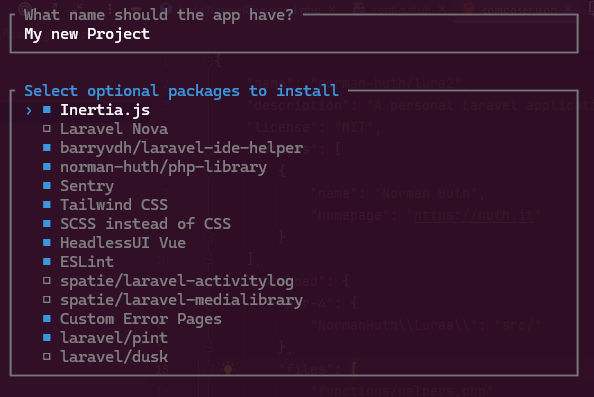
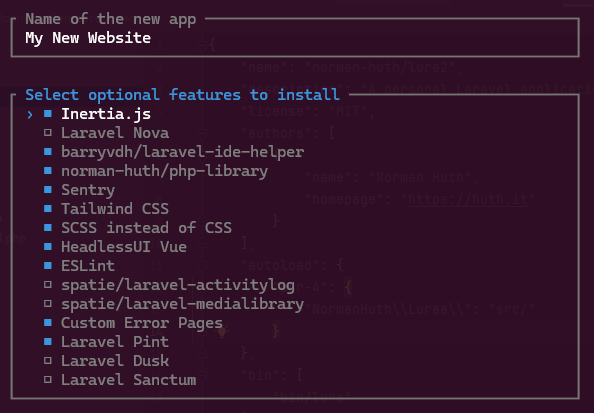
feat: add sanctum

Changed region(s): [[0.0, 0.2116, 1.0, 0.9673], [0.0, 0.0, 1.0, 0.1511]]

diff --git a/src/Commands/InstallLaravelCommand.php b/src/Commands/InstallLaravelCommand.php
@@ -61,8 +61,9 @@ class InstallLaravelCommand extends AbstractCommand
         'spatie/laravel-activitylog' => false,
         'spatie/laravel-medialibrary' => false,
         'Custom Error Pages' => true,
-        'laravel/pint' => true,
-        'laravel/dusk' => false,
+        'Laravel Pint' => true,
+        'Laravel Dusk' => false,
+        'Laravel Sanctum' => false,
     ];
 
     protected string $optionFontAwesome = 'no';
@@ -139,7 +140,7 @@ class InstallLaravelCommand extends AbstractCommand
         }
 
         $this->options = multiselect(
-            label: 'Select optional packages to install',
+            label: 'Select optional features to install',
             options: array_keys($this->options),
             default: array_keys(array_filter($this->options)),
             scroll: count($this->options),
@@ -209,13 +210,13 @@ class InstallLaravelCommand extends AbstractCommand
             $this->dependencies->addComposerDevRequirement('barryvdh/laravel-ide-helper', '^3.0"');
         }
 
-        if (in_array('laravel/pint', $this->options)) {
+        if (in_array('Laravel Pint', $this->options)) {
             $this->dependencies->addComposerDevRequirement('laravel/pint', '^1.15');
             $this->storage->publish('templates/pint.json');
             $this->dependencies->addComposerScript('pint', './vendor/bin/pint');
         }
 
-        if (in_array('laravel/dusk', $this->options)) {
+        if (in_array('Laravel Dusk', $this->options)) {
             $this->dependencies->addComposerDevRequirement('laravel/dusk', '^8.1');
         }
 
@@ -299,6 +300,11 @@ class InstallLaravelCommand extends AbstractCommand
             }
         }
 
+        if (in_array('Laravel Sanctum', $this->options)) {
+            $this->dependencies->addComposerRequirement('laravel/sanctum', '^4.0');
+            $this->env->addKeys('SANCTUM_TOKEN_PREFIX', 'APP_URL');
+        }
+
         if (in_array('HeadlessUI Vue', $this->options)) {
             $this->dependencies->addPackageDependency('@headlessui/vue', '^1.7.19');
         }
@@ -330,6 +336,13 @@ class InstallLaravelCommand extends AbstractCommand
 
     protected function afterComposerInstall(): void
     {
+        $this->runProcess('php artisan lang:publish --ansi');
+
+        if (in_array('Laravel Sanctum', $this->options)) {
+            $this->runProcess('php artisan vendor:publish --tag=sanctum-migrations --ansi');
+            $this->runProcess('php artisan vendor:publish --tag=sanctum-config --ansi');
+        }
+
         $this->afterComposerInstallAbstractController();
         $this->afterComposerInstallServiceProvider();
         $this->afterComposerInstallInertia();
@@ -341,7 +354,7 @@ class InstallLaravelCommand extends AbstractCommand
             $this->storage->publish('templates/eslint');
         }
 
-        if (in_array('laravel/dusk', $this->options)) {
+        if (in_array('Laravel Dusk', $this->options)) {
             $this->runProcess('php artisan dusk:install --ansi');
         }
 
@@ -350,7 +363,7 @@ class InstallLaravelCommand extends AbstractCommand
             $this->storage->publish('templates/NovaServiceProvider.php', 'app/Providers/NovaServiceProvider.php');
         }
 
-        if (in_array('laravel/pint', $this->options)) {
+        if (in_array('Laravel Pint', $this->options)) {
             $this->runProcess($this->composer . ' pint --ansi');
         }
     }
@@ -529,7 +542,7 @@ class InstallLaravelCommand extends AbstractCommand
         $this->line('If the folder already exists, it may not contain any files or folders created by Laravel.');
 
         $this->appName = text(
-            label: 'What name should the app have?',
+            label: 'Name of the new app',
             default: $this->appName,
             required: true,
             //hint: implode(' ', [
